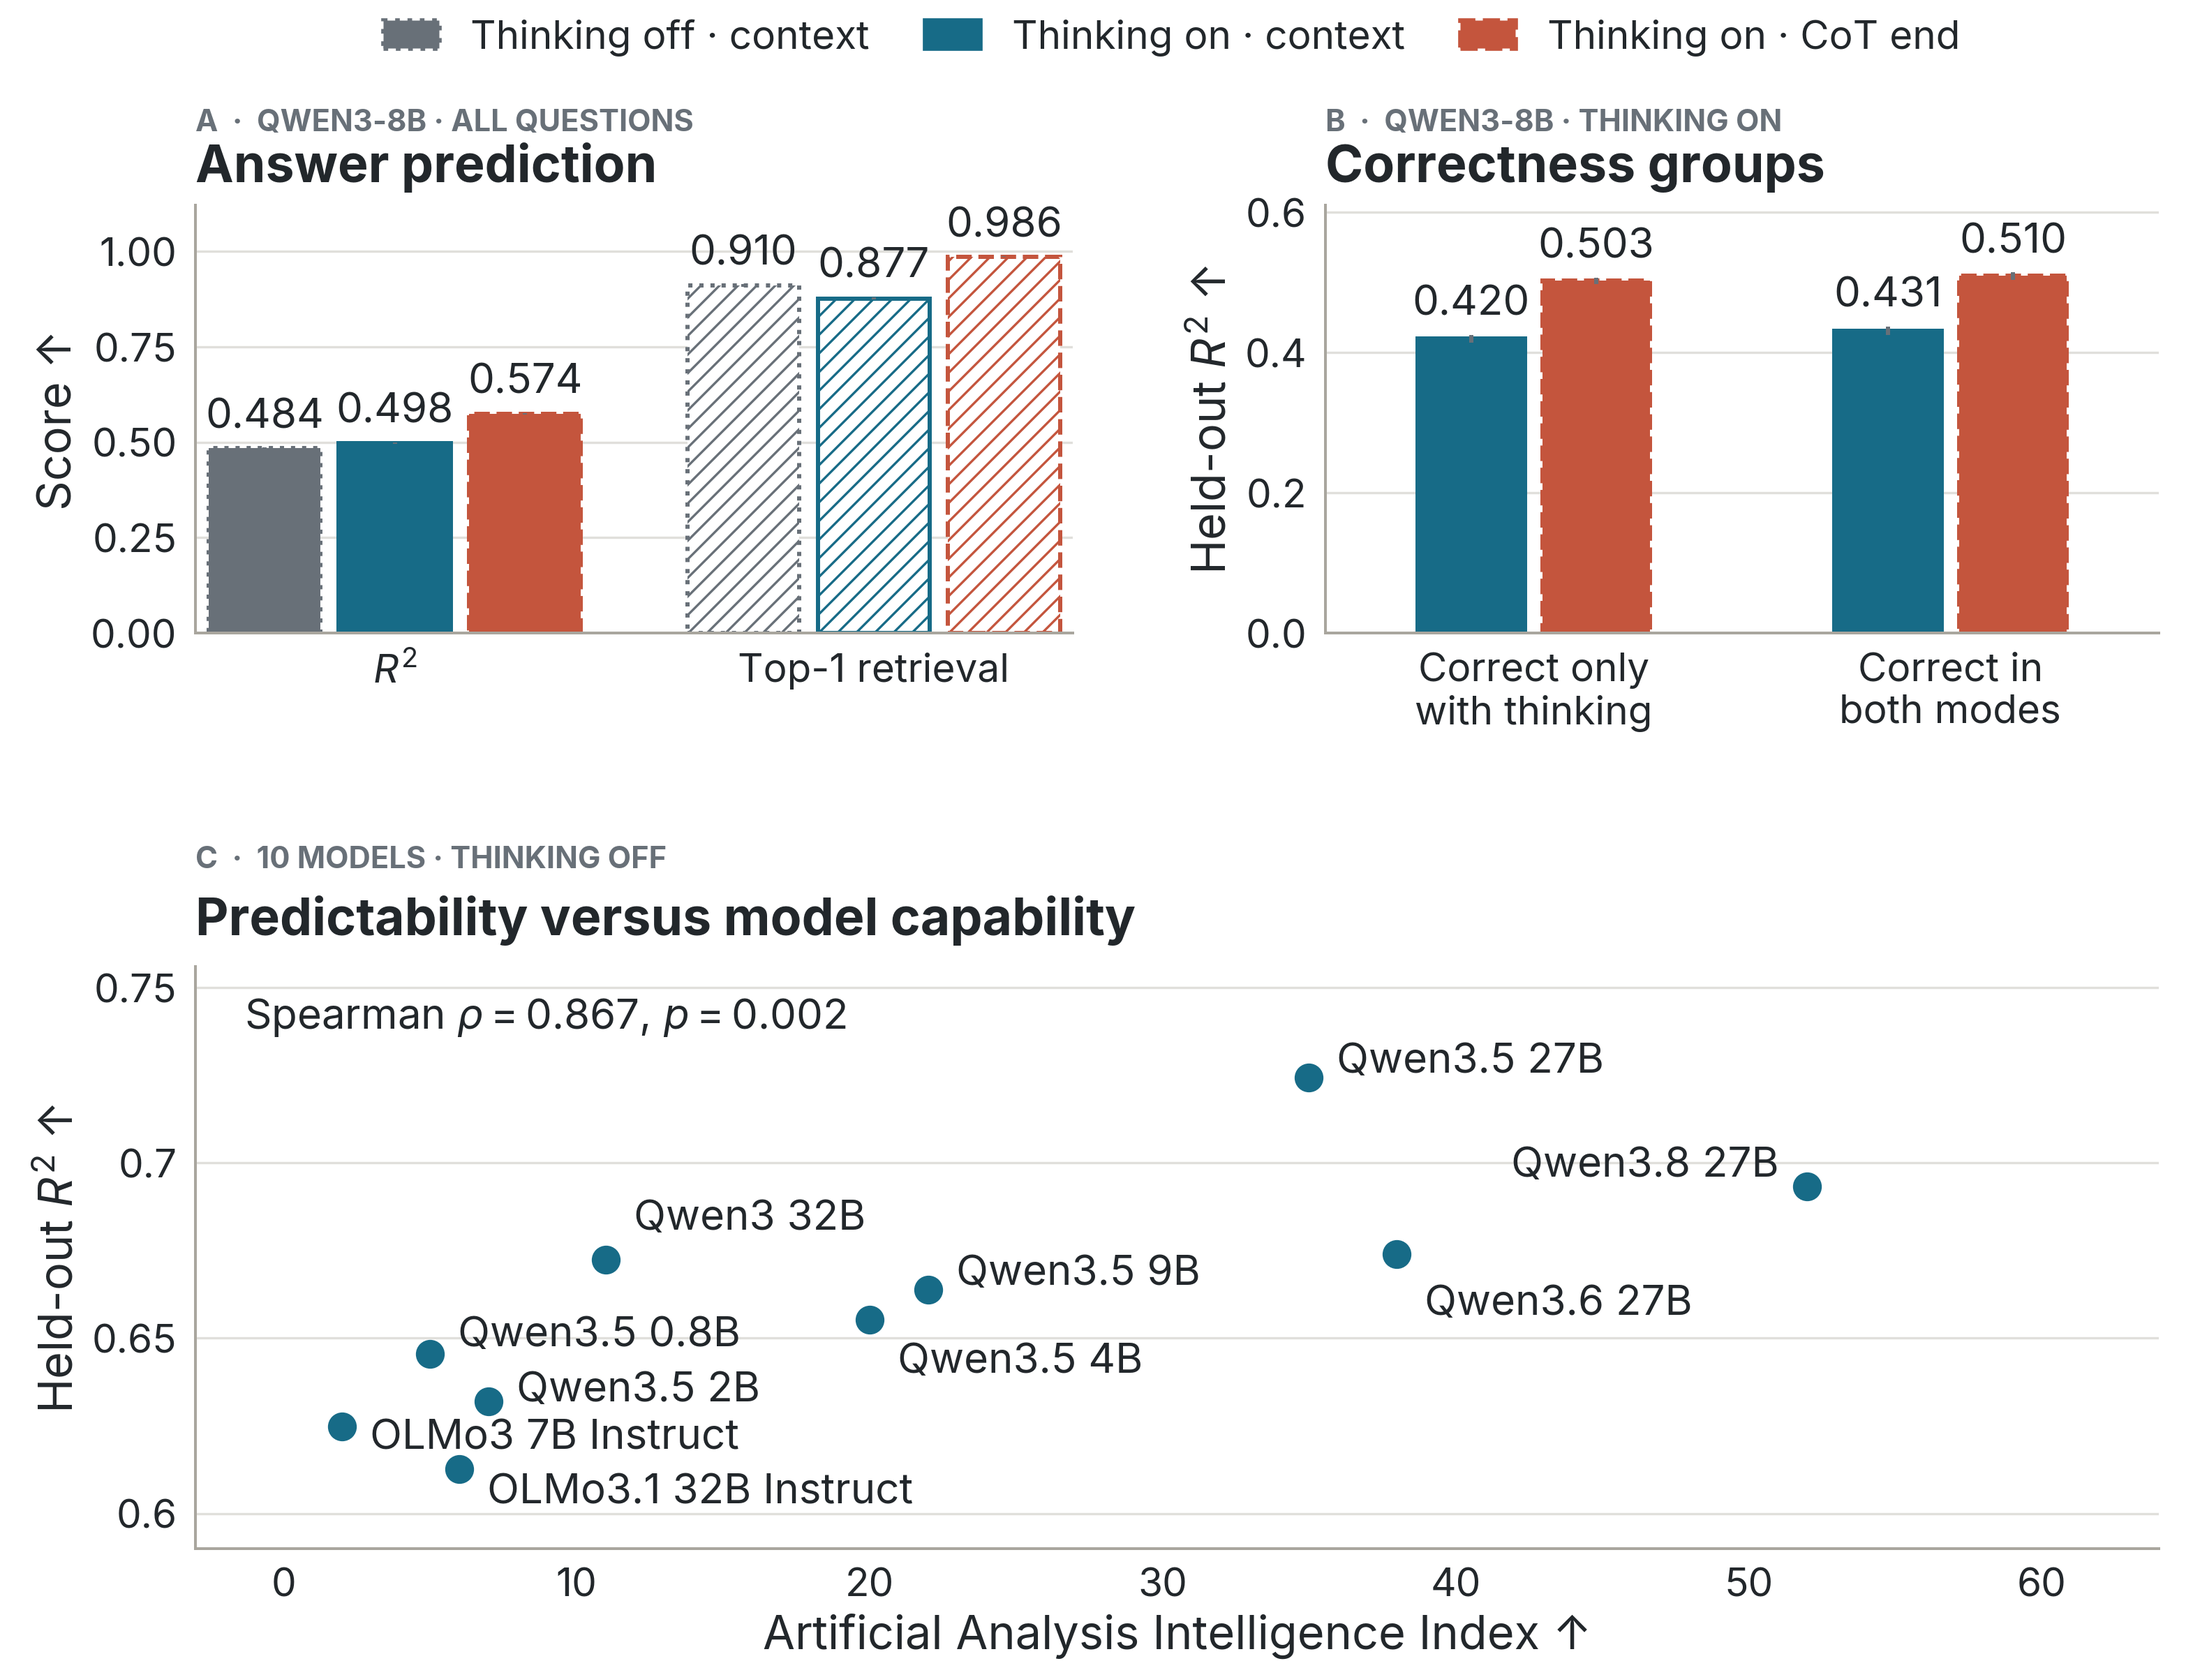
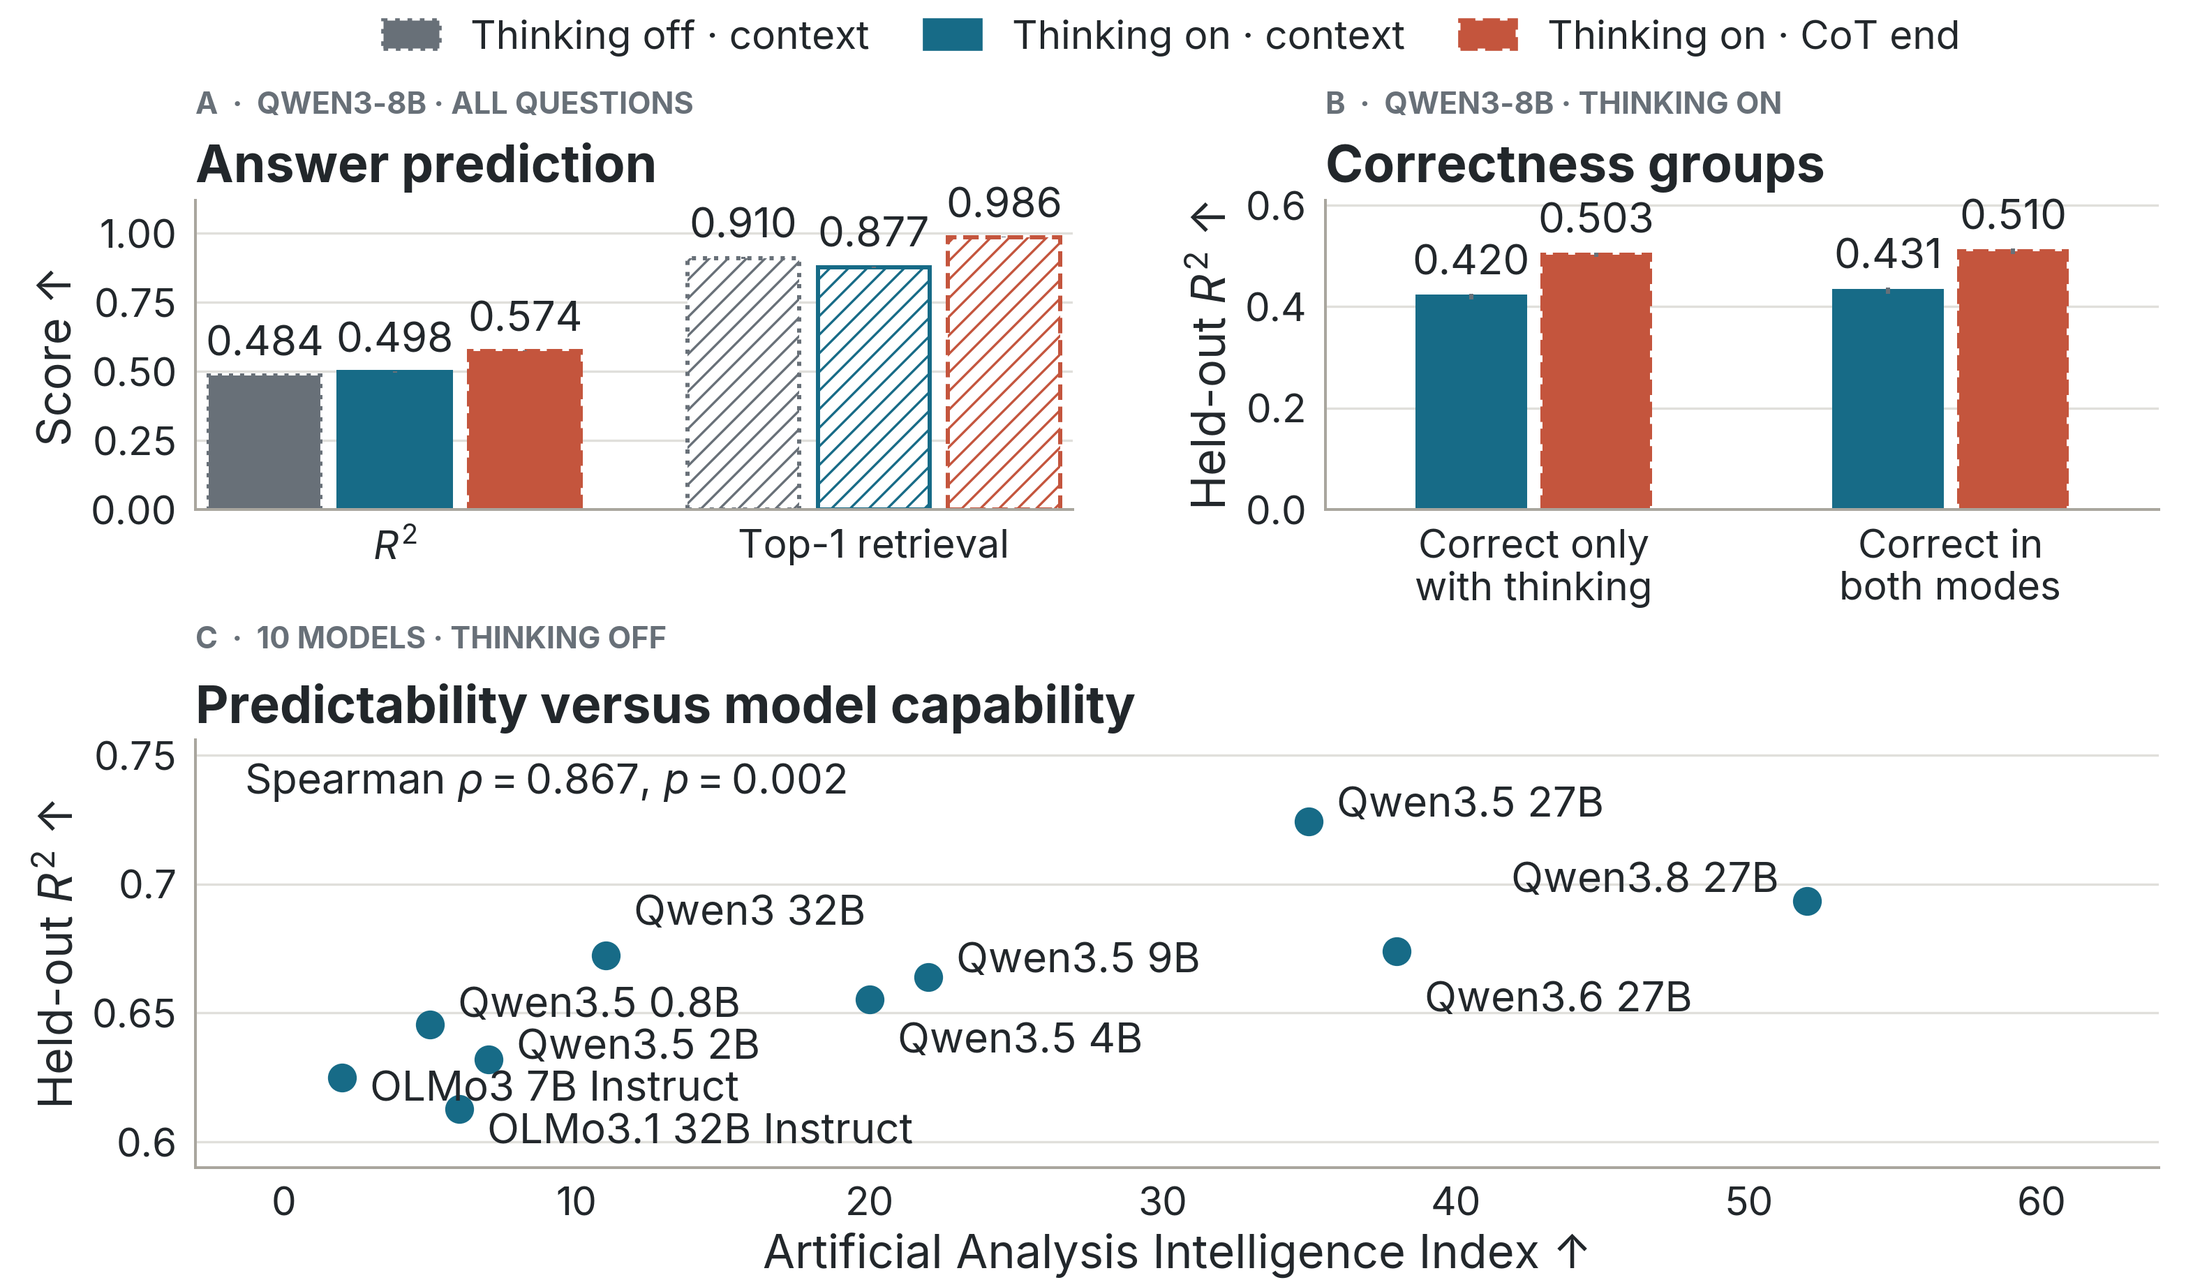
Shorten the combined CoT and capability figure by 23 percent

diff --git a/scripts/paper_fig_cot_capability.py b/scripts/paper_fig_cot_capability.py
@@ -99,7 +99,9 @@ def draw_prediction(ax, data):
     ax.set_yticks([0, 0.25, 0.5, 0.75, 1.0])
     ax.set_ylabel(better_label("Score"))
     style_axis(ax)
-    panel_header(ax, "A", "Qwen3-8B · all questions", "Answer prediction")
+    panel_header(
+        ax, "A", "Qwen3-8B · all questions", "Answer prediction", kicker_y=1.26, title_y=1.06
+    )
 
 
 def draw_correctness(ax, data):
@@ -127,7 +129,9 @@ def draw_correctness(ax, data):
     ax.set_yticks([0, 0.2, 0.4, 0.6])
     ax.set_ylabel(better_label(r"Held-out $R^2$"))
     style_axis(ax)
-    panel_header(ax, "B", "Qwen3-8B · thinking on", "Correctness groups")
+    panel_header(
+        ax, "B", "Qwen3-8B · thinking on", "Correctness groups", kicker_y=1.26, title_y=1.06
+    )
 
 
 def draw_capability(ax, data):
@@ -171,7 +175,14 @@ def draw_capability(ax, data):
         transform=ax.transAxes,
         va="top",
     )
-    panel_header(ax, "C", "10 models · thinking off", "Predictability versus model capability")
+    panel_header(
+        ax,
+        "C",
+        "10 models · thinking off",
+        "Predictability versus model capability",
+        kicker_y=1.20,
+        title_y=1.04,
+    )
 
 
 def main():
@@ -180,11 +191,11 @@ def main():
     source = json.loads(raw)
     cot, capability = [source[key]["data"] for key in ("cot", "capability")]
     set_c2a_style()
-    fig, frac = c2a_figure("full", aspect=0.78)
+    fig, frac = c2a_figure("full", aspect=0.60)
     axes = [
-        fig.add_axes([0.085, 0.62, 0.40, 0.25]),
-        fig.add_axes([0.60, 0.62, 0.38, 0.25]),
-        fig.add_axes([0.085, 0.085, 0.895, 0.34]),
+        fig.add_axes([0.085, 0.60, 0.40, 0.235]),
+        fig.add_axes([0.60, 0.60, 0.38, 0.235]),
+        fig.add_axes([0.085, 0.10, 0.895, 0.325]),
     ]
     fig.legend(
         handles=[

diff --git a/docs/paper_context_answer_map/ai_use_log.md b/docs/paper_context_answer_map/ai_use_log.md
@@ -101,3 +101,4 @@ programmatically, never generated from model memory.
 | 2026-09-10 | Codex added dedicated Appendix A.7, Baselines and controls, covering copy plus bias, shuffled pairs, the boundary-token control, and the text-embedding baseline. Added verified fitting and BGE encoder details, retained the boundary protocol, and placed a shared numbered appendix pointer after the four main-text bullets. Existing direction and minimal-pair methods retain their reference label in the following subsection. [Overleaf](https://www.overleaf.com/project/6a59c927290f8b8b5eee0055), 77c5990e99b2b53a7453b86b770c887e89c0c986. | Thomas requested an appendix covering all baselines and a main-text reference. Newly added settings were verified against current baseline artifacts and producer code, and independent method/prose review passed. Exact-scope checks passed, the manuscript compiled with no new unresolved references or citations, and the main-text and appendix layouts were inspected. Concurrent Section 4.2 edits were preserved through rebase. Both edited files were verified after the fast-forward Overleaf push. |
 | 2026-09-10 | Codex applied Thomas's approved wording to all four main-text baseline bullets, consistently stating what each comparison does and then what it tests. The Appendix A.7 reference remains. [Overleaf](https://www.overleaf.com/project/6a59c927290f8b8b5eee0055), d5d9687f936cb70250bd95e395e16cb872ccaa0c. | Only the four approved sentences changed. Exact-scope checks and independent prose review passed, the manuscript compiled with no new unresolved references or citations, the appendix reference resolves, and the affected page was visually inspected. The committed methodology source was verified after the fast-forward Overleaf push. |
 | 2026-09-11 | Codex combined the two main CoT panels with the predictability-versus-capability scatter in one three-panel figure at Thomas's request, updated the shared caption and panel references, and retained the original plotted data. [Overleaf](https://www.overleaf.com/project/6a59c927290f8b8b5eee0055), 5d86593d6b0aac87c9904f40a5f4d97016095ac2. | All six underlying source artifacts were hash-verified; ten bars, ten intervals, and ten model coordinates match the originals exactly. Independent review passed after improving numeric-label spacing. Color, grayscale, and manuscript layouts were inspected. The manuscript compiled with no new unresolved references; its existing appendix fig:element-shifts warning remains. Concurrent author edits were preserved through rebase, and the fast-forward Overleaf push was verified. |
+| 2026-09-11 | Codex shortened the merged CoT/capability figure at Thomas's request by reducing panel heights and vertical gaps. [Overleaf](https://www.overleaf.com/project/6a59c927290f8b8b5eee0055), 86f82acce86b80707fd76e3c2f98b858711b6abd. | Exported height decreased from 9.920 to 7.645 authoring inches (22.9%) with the width, font sizes, plotted values, and intervals preserved. Label/header overlap checks and Ruff passed; the compiled manuscript layout was inspected. The existing unrelated appendix reference warning remains. The fast-forward Overleaf push was verified. |

diff --git a/docs/paper_context_answer_map/plotting_style.md b/docs/paper_context_answer_map/plotting_style.md
@@ -312,7 +312,9 @@ Rendering requires no model inference, refitting, or statistical recomputation.
 Panels A and B retain the main CoT comparisons; panel C places the capability
 scatter below them at full width to retain all ten model labels. The correctness
 groups are labeled by their observed outcomes: correct only with thinking and
-correct in both modes. Include the combined PDF at exactly `\textwidth`.
+correct in both modes. The compact layout uses a 0.60 canvas aspect ratio,
+shorter axes, and tighter vertical gaps while preserving the standard font sizes.
+Include the combined PDF at exactly `\textwidth`.
 The manuscript keeps `fig:cot` and `fig:model-capability` as labels on this one
 float, with capability references explicitly pointing to panel C. The standalone
 source figures remain available in their original producer branches.
